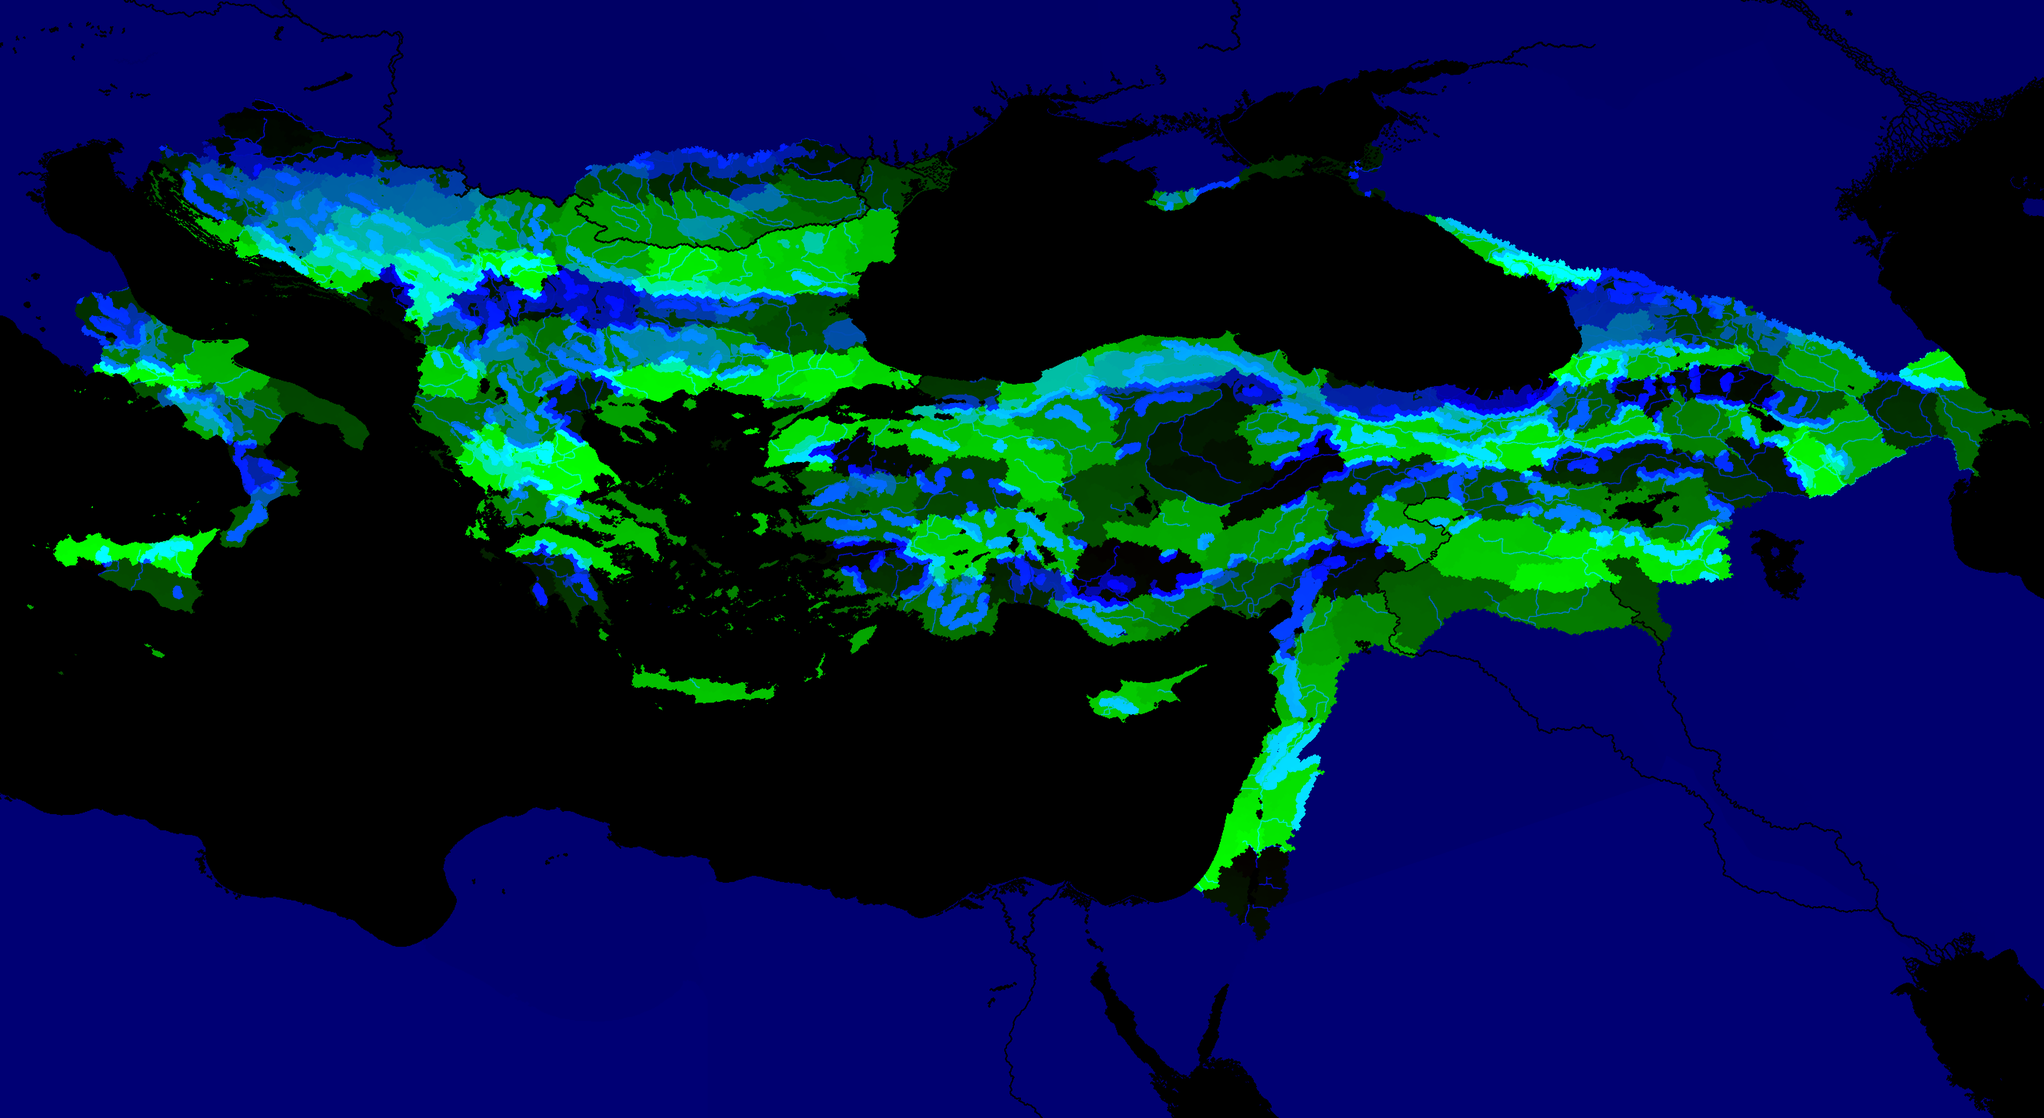
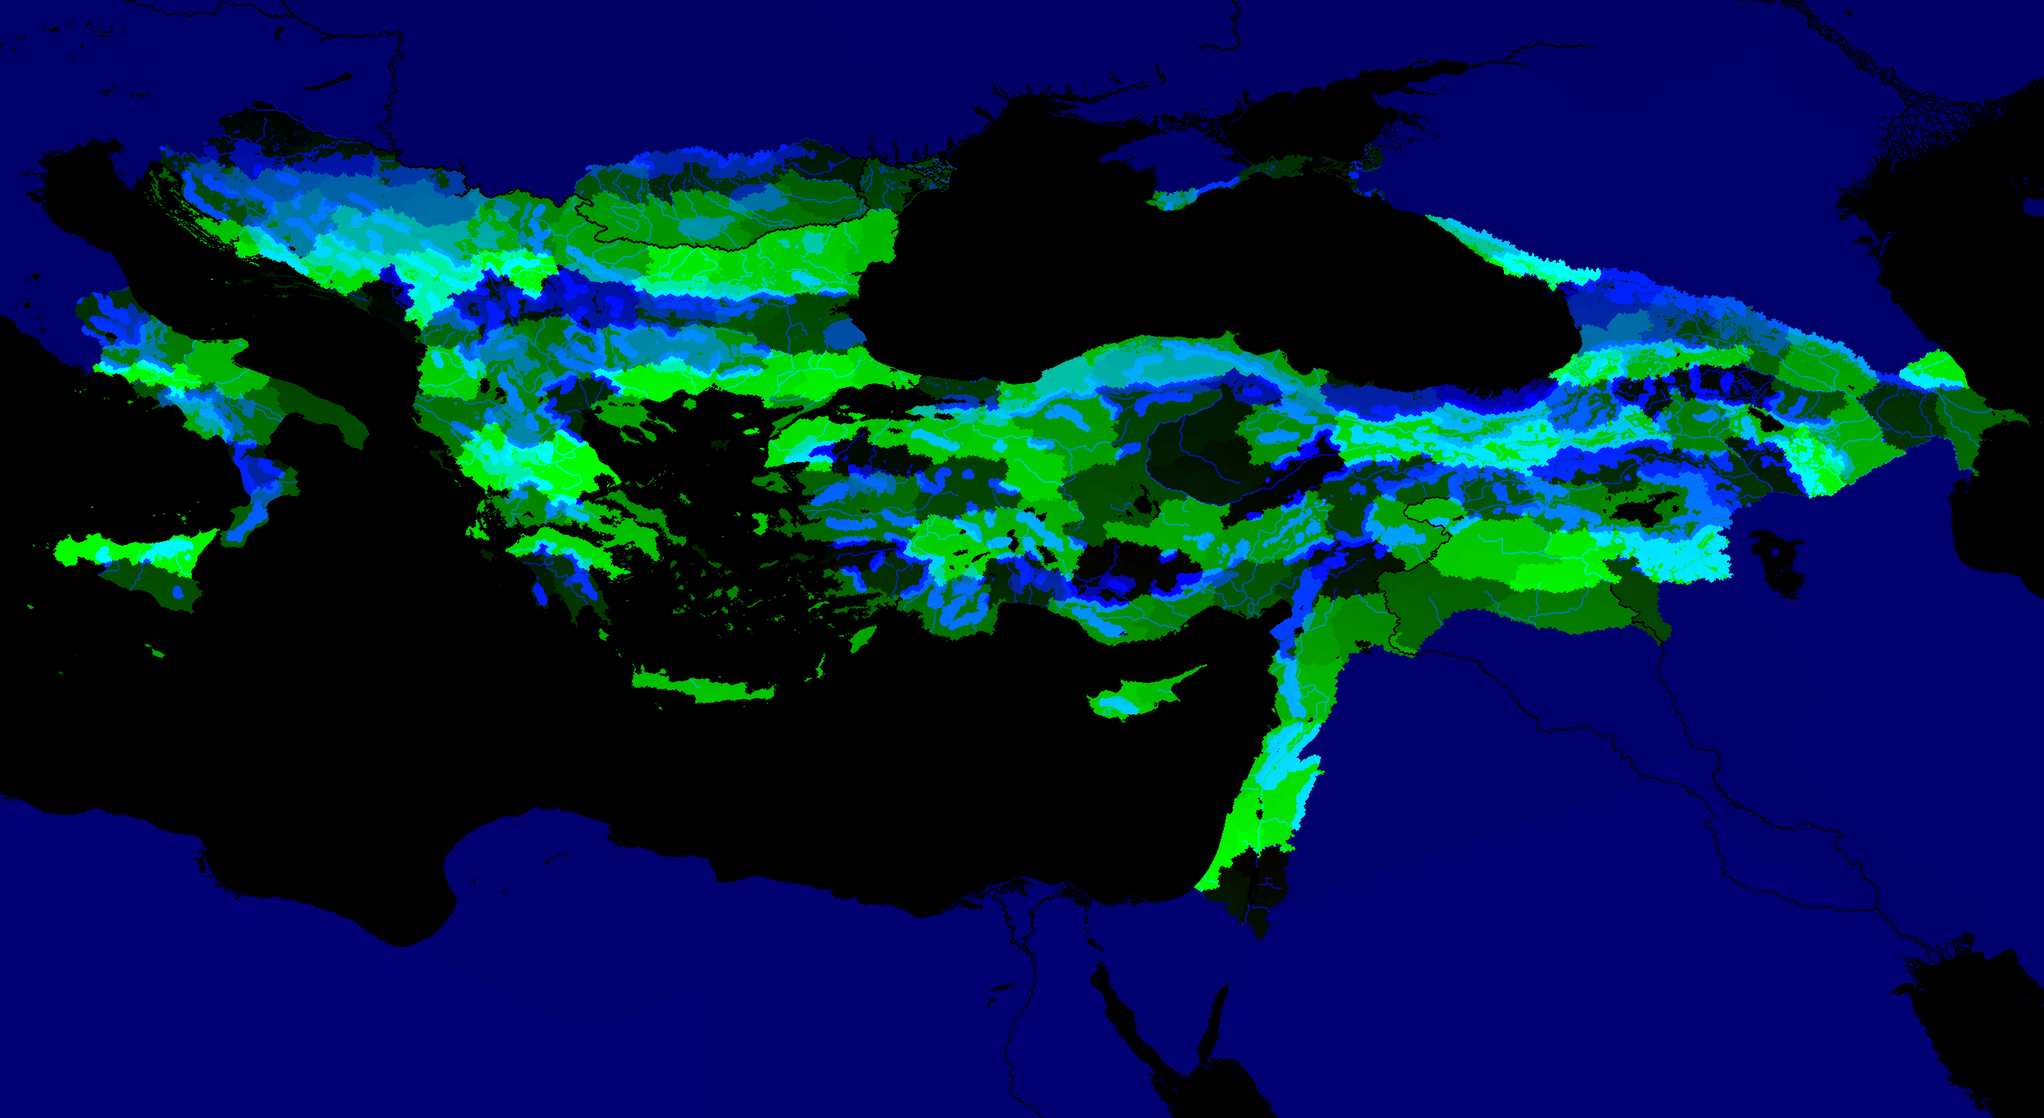
Местность: цвет земли, типы местности и рельеф по эталонной карте (вырезки в tools/terrain), пики на высоких горах, леса; земли за краем зоны под серой вуалью
Claude-Session: https://claude.ai/code/session_01DB8qGZSVeWu67G2NacHSuU

diff --git a/index.html b/index.html
@@ -2352,7 +2352,7 @@ const SFX = (() => {
 if (!HEADLESS) document.addEventListener('click', e => { if (e.target.closest && e.target.closest('button') && !e.target.closest('.nosfx')) SFX.play('click'); }, true);
 
 /* --- заранее загружаем карту (с самого титульного экрана), со шкалой загрузки --- */
-const PRE = { got: {}, total: { img: 2000000, ids: 470000 }, p: null, ready: false, imgOk: false };
+const PRE = { got: {}, total: { img: 3300000, ids: 600000 }, p: null, ready: false, imgOk: false };
 function prefetch(url, key) {
   if (typeof fetch === 'undefined' || location.protocol === 'file:') return Promise.resolve(url);
   return fetch(url).then(r => {
@@ -2647,7 +2647,8 @@ function drawOverlay() {
     for (let y = 0; y < th; y++) {
       const sy = Math.min(PIX.h - 1, Math.floor(y * st)) * W;
       for (let x = 0; x < tw; x++) {
-        const i = sy + Math.min(W - 1, Math.floor(x * st)), v = ids[i]; if (!v) continue;
+        const i = sy + Math.min(W - 1, Math.floor(x * st)), v = ids[i];
+        if (!v) { if (PIX.outer && PIX.outer[i]) { const o = (y * tw + x) * 4; d[o] = 118; d[o + 1] = 116; d[o + 2] = 112; d[o + 3] = 175; } continue; }   // земли за краем зоны — серая вуаль
         if (pr[v] < 0 || pOwn[v] < 0) continue;
         const m = PIX.mtn && PIX.mtn[i] && !pFree[v], c = pCol[v], o = (y * tw + x) * 4;
         d[o] = c[0]; d[o + 1] = c[1]; d[o + 2] = c[2]; d[o + 3] = pFree[v] ? (((x + y) % 5 === 0 || (x - y + 9999) % 5 === 0) ? 110 : 0) : (m ? (PIX.mtn[i] === 2 ? 45 : PIX.mtn[i] === 3 ? 150 : UI.ridgeA) : 190);
@@ -2785,7 +2786,7 @@ function paintVector() {
     if (PIX.vtKey !== key) {
       const vt = PIX.vt; if (vt.width !== vw || vt.height !== vh) { vt.width = vw; vt.height = vh; }
       const vc = vt.getContext('2d'), im = vc.createImageData(vw, vh), d = im.data, ids = PIX.ids, pr = PIX.provReg, pc = PIX.pCol, po = PIX.pOwn, mt = PIX.mtn, W = PIX.w;
-      for (let y = 0; y < vh; y++) { const row = (Y0 + y) * W + X0; for (let x = 0; x < vw; x++) { const i = row + x, v = ids[i]; if (!v || pr[v] < 0 || po[v] < 0) continue; const m = mt && mt[i] && !PIX.pFree[v], c = pc[v], o = (y * vw + x) * 4; d[o] = c[0]; d[o + 1] = c[1]; d[o + 2] = c[2]; const gx = X0 + x, gy = Y0 + y; d[o + 3] = PIX.pFree[v] ? (((gx + gy) % 10 < 1 || (gx - gy + 99999) % 10 < 1) ? 120 : 0) : (m ? (mt[i] === 2 ? 45 : mt[i] === 3 ? 150 : UI.ridgeA) : 190); } }
+      for (let y = 0; y < vh; y++) { const row = (Y0 + y) * W + X0; for (let x = 0; x < vw; x++) { const i = row + x, v = ids[i]; if (!v) { if (PIX.outer && PIX.outer[i]) { const o = (y * vw + x) * 4; d[o] = 118; d[o + 1] = 116; d[o + 2] = 112; d[o + 3] = 175; } continue; } if (pr[v] < 0 || po[v] < 0) continue; const m = mt && mt[i] && !PIX.pFree[v], c = pc[v], o = (y * vw + x) * 4; d[o] = c[0]; d[o + 1] = c[1]; d[o + 2] = c[2]; const gx = X0 + x, gy = Y0 + y; d[o + 3] = PIX.pFree[v] ? (((gx + gy) % 10 < 1 || (gx - gy + 99999) % 10 < 1) ? 120 : 0) : (m ? (mt[i] === 2 ? 45 : mt[i] === 3 ? 150 : UI.ridgeA) : 190); } }
       vc.putImageData(im, 0, 0); PIX.vtKey = key;
     }
     const [sx0, sy0] = toS(X0, Y0), [sx1, sy1] = toS(X1, Y1);

diff --git a/tools/src/6_ui.js b/tools/src/6_ui.js
@@ -107,7 +107,7 @@ const SFX = (() => {
 if (!HEADLESS) document.addEventListener('click', e => { if (e.target.closest && e.target.closest('button') && !e.target.closest('.nosfx')) SFX.play('click'); }, true);
 
 /* --- заранее загружаем карту (с самого титульного экрана), со шкалой загрузки --- */
-const PRE = { got: {}, total: { img: 2000000, ids: 470000 }, p: null, ready: false, imgOk: false };
+const PRE = { got: {}, total: { img: 3300000, ids: 600000 }, p: null, ready: false, imgOk: false };
 function prefetch(url, key) {
   if (typeof fetch === 'undefined' || location.protocol === 'file:') return Promise.resolve(url);
   return fetch(url).then(r => {
@@ -402,7 +402,8 @@ function drawOverlay() {
     for (let y = 0; y < th; y++) {
       const sy = Math.min(PIX.h - 1, Math.floor(y * st)) * W;
       for (let x = 0; x < tw; x++) {
-        const i = sy + Math.min(W - 1, Math.floor(x * st)), v = ids[i]; if (!v) continue;
+        const i = sy + Math.min(W - 1, Math.floor(x * st)), v = ids[i];
+        if (!v) { if (PIX.outer && PIX.outer[i]) { const o = (y * tw + x) * 4; d[o] = 118; d[o + 1] = 116; d[o + 2] = 112; d[o + 3] = 175; } continue; }   // земли за краем зоны — серая вуаль
         if (pr[v] < 0 || pOwn[v] < 0) continue;
         const m = PIX.mtn && PIX.mtn[i] && !pFree[v], c = pCol[v], o = (y * tw + x) * 4;
         d[o] = c[0]; d[o + 1] = c[1]; d[o + 2] = c[2]; d[o + 3] = pFree[v] ? (((x + y) % 5 === 0 || (x - y + 9999) % 5 === 0) ? 110 : 0) : (m ? (PIX.mtn[i] === 2 ? 45 : PIX.mtn[i] === 3 ? 150 : UI.ridgeA) : 190);
@@ -540,7 +541,7 @@ function paintVector() {
     if (PIX.vtKey !== key) {
       const vt = PIX.vt; if (vt.width !== vw || vt.height !== vh) { vt.width = vw; vt.height = vh; }
       const vc = vt.getContext('2d'), im = vc.createImageData(vw, vh), d = im.data, ids = PIX.ids, pr = PIX.provReg, pc = PIX.pCol, po = PIX.pOwn, mt = PIX.mtn, W = PIX.w;
-      for (let y = 0; y < vh; y++) { const row = (Y0 + y) * W + X0; for (let x = 0; x < vw; x++) { const i = row + x, v = ids[i]; if (!v || pr[v] < 0 || po[v] < 0) continue; const m = mt && mt[i] && !PIX.pFree[v], c = pc[v], o = (y * vw + x) * 4; d[o] = c[0]; d[o + 1] = c[1]; d[o + 2] = c[2]; const gx = X0 + x, gy = Y0 + y; d[o + 3] = PIX.pFree[v] ? (((gx + gy) % 10 < 1 || (gx - gy + 99999) % 10 < 1) ? 120 : 0) : (m ? (mt[i] === 2 ? 45 : mt[i] === 3 ? 150 : UI.ridgeA) : 190); } }
+      for (let y = 0; y < vh; y++) { const row = (Y0 + y) * W + X0; for (let x = 0; x < vw; x++) { const i = row + x, v = ids[i]; if (!v) { if (PIX.outer && PIX.outer[i]) { const o = (y * vw + x) * 4; d[o] = 118; d[o + 1] = 116; d[o + 2] = 112; d[o + 3] = 175; } continue; } if (pr[v] < 0 || po[v] < 0) continue; const m = mt && mt[i] && !PIX.pFree[v], c = pc[v], o = (y * vw + x) * 4; d[o] = c[0]; d[o + 1] = c[1]; d[o + 2] = c[2]; const gx = X0 + x, gy = Y0 + y; d[o + 3] = PIX.pFree[v] ? (((gx + gy) % 10 < 1 || (gx - gy + 99999) % 10 < 1) ? 120 : 0) : (m ? (mt[i] === 2 ? 45 : mt[i] === 3 ? 150 : UI.ridgeA) : 190); } }
       vc.putImageData(im, 0, 0); PIX.vtKey = key;
     }
     const [sx0, sy0] = toS(X0, Y0), [sx1, sy1] = toS(X1, Y1);

diff --git a/tools/mkmap3.py b/tools/mkmap3.py
@@ -81,10 +81,41 @@ w = np.clip(hmix * 0.9, 0, 0.5)   # подножия чуть землистее
 land_out = land_out * (1 - w) + mcol * w
 land_out *= shade[..., None]
 out = np.where(landm[..., None], np.clip(land_out, 0, 255), out).astype(np.int32)
+# --- местность по эталонной карте (mkterrain.py), если вырезки есть: цвет земли, тип местности, высоты ---
+EU = os.path.exists(SP + 'terrain/color.jpg')
+if EU:
+    ecol = np.asarray(Image.open(SP + 'terrain/color.jpg').convert('RGB')).astype(np.float32)
+    ter = np.asarray(Image.open(SP + 'terrain/type.png')); hgt = np.asarray(Image.open(SP + 'terrain/height.png')).astype(np.float32)
+    # «рисованные» цвета типов местности (смешиваются с цветом эталона — карта, а не спутниковый снимок)
+    PAL = {0: (112, 140, 72), 5: (138, 156, 84), 4: (168, 160, 102), 3: (206, 182, 132), 7: (184, 156, 108),
+           2: (152, 128, 98), 6: (128, 120, 106), 16: (232, 232, 230), 1: (74, 104, 54), 9: (84, 108, 86),
+           19: (200, 176, 126), 35: (150, 148, 108)}
+    pal = ecol.copy()
+    for i, c in PAL.items(): pal[ter == i] = c
+    pal = np.stack([nd.gaussian_filter(pal[..., c], 1.1) for c in range(3)], -1)
+    basecol = ecol * 0.5 + pal * 0.5 + noise(5)[..., None] * 8
+    Hs = nd.gaussian_filter(hgt, 1.3)
+    gy2, gx2 = np.gradient(Hs * 0.11)
+    nz2 = 1 / np.sqrt(gx2 ** 2 + gy2 ** 2 + 1)
+    shade2 = np.clip((-gx2 * L[0] - gy2 * L[1] + L[2]) * nz2 / L[2], 0.55, 1.45)
+    land2 = np.clip(basecol * shade2[..., None], 0, 255)
+    coast = k == 0x000020
+    keepl = landm & ~coast
+    out = np.where(keepl[..., None], land2, out).astype(np.int32)
+    # границы внешних земель автора (чёрные линии за краем зоны) — поверх
+    olin = ~zone & ((k == 0) | (np.isin(k, [0x262626, 0x404040]) & ~nd.binary_dilation(k == 0x5E5E5E, iterations=2)))
+    out[olin] = (out[olin] * 0.35).astype(np.int32)
+    euw = np.isin(ter, [1]) & landm                                   # лесистая местность эталона
+    forest_m = nd.binary_opening(euw, iterations=1)
+    if os.path.exists(SP + 'umap/forest.npy'): forest_m |= np.load(SP + 'umap/forest.npy') & landm   # + исторические леса (mkforest.py)
+    conifer_m = forest_m & ((Hs > 118) | (nd.distance_transform_edt(~allm) < 22))
+    eu_mtn = np.isin(ter, [6, 16, 2]) & landm & (Hs > 127)            # пики эталона — только на самых высоких местах
 # леса (mkforest.py): деревья-значки под пиками
 sys.path.insert(0, SP)
 from peaks import draw_trees
-if os.path.exists(SP + 'umap/forest.npy'):
+if EU:
+    out = draw_trees(out, forest_m, conifer_m, np.random.default_rng(1204))
+elif os.path.exists(SP + 'umap/forest.npy'):
     out = draw_trees(out, np.load(SP + 'umap/forest.npy') & landm, np.load(SP + 'umap/conifer.npy'), np.random.default_rng(1204))
 # реки (mkrivers.py — малые реки с карты мода): поверх леса, под пиками
 if os.path.exists(SP + 'umap/rivers.npy'):
@@ -93,9 +124,10 @@ if os.path.exists(SP + 'umap/rivers.npy'):
     out = np.clip(out.astype(np.float32) * (1 - rv) + rcol * rv, 0, 255).astype(np.int32)
 # рисованные пики по хребтам (дальние — раньше, ближние перекрывают)
 from peaks import draw_peaks
-out = draw_peaks(out, allm & landm, np.random.default_rng(1261), bg=bgm & ~zone)
+pkeep = np.where(allm, 0.85, 0.4).astype(np.float32)   # на игровых хребтах — плотно, на горах эталона — реже
+out = draw_peaks(out, (allm | (eu_mtn if EU else False)) & landm, np.random.default_rng(1261), bg=None, keep=pkeep)
 # широкая маска гор (для режима «хребты своего цвета» — без заливки державы) — в синий канал ids.png
-massif = (Hm > 0.38) & zone
+massif = ((Hm > 0.38) | (nd.binary_dilation(eu_mtn, iterations=3) if EU else False)) & zone
 idp = sys.argv[1] + '/ids.png'
 if os.path.exists(idp):
     I = np.asarray(Image.open(idp).convert('RGB')).copy()
@@ -104,8 +136,8 @@ if os.path.exists(idp):
     if os.path.exists(SP + 'umap/rivers.npy'):   # реки: B=180 — видны сквозь цвет державы
         rvm = (np.load(SP + 'umap/rivers.npy') > 45) & ~keep_outer & ((I[..., 0].astype(int) << 8 | I[..., 1]) > 0)
         b[rvm] = 180
-    if os.path.exists(SP + 'umap/forest.npy'):   # леса: B=165 — видны сквозь цвет державы (слабее гор)
-        fm = np.load(SP + 'umap/forest.npy') & ~keep_outer & (b == 0) & ((I[..., 0].astype(int) << 8 | I[..., 1]) > 0)
+    if EU or os.path.exists(SP + 'umap/forest.npy'):   # леса: B=165 — видны сквозь цвет державы (слабее гор)
+        fm = (forest_m if EU else np.load(SP + 'umap/forest.npy')) & ~keep_outer & (b == 0) & ((I[..., 0].astype(int) << 8 | I[..., 1]) > 0)
         b[fm] = 165
     I[..., 2] = b; Image.fromarray(I).save(idp, optimize=True)
 im = Image.fromarray(out.astype(np.uint8))

diff --git a/tools/mkterrain.py b/tools/mkterrain.py
@@ -1,0 +1,26 @@
+# Местность из эталонной карты (папка map/: heightmap.bmp, terrain.bmp, terrain/colormap_summer.dds).
+# Наша карта — вырезка эталонной, увеличенная ровно в 2 раза: наш (x, y) = эталон (x/2 + X0, y/2 + Y0),
+# сдвиг подобран по морю (совпадение 99,4 %). Оригиналы в репозиторий не кладём — только вырезки.
+# Запуск: python3 mkterrain.py ПАПКА_map
+# Выход: terrain/color.jpg, terrain/type.png, terrain/height.png — вырезки в нашей сетке (их читает mkmap3.py)
+import os, sys, glob
+import numpy as np
+from PIL import Image
+SP = os.path.dirname(os.path.abspath(__file__)) + '/'
+SRC = sys.argv[1].rstrip('/') + '/'
+X0, Y0, K = 3100, 854, 2
+H, W = np.asarray(Image.open(sorted(glob.glob(SP + '../source/*political*.png'))[0])).shape[:2]
+w, h = (W + K - 1) // K + 1, (H + K - 1) // K + 1
+def fit(im, scale, resample):
+    s = scale
+    c = im.crop((int(X0 / s), int(Y0 / s), int(X0 / s) + int(w / s) + 2, int(Y0 / s) + int(h / s) + 2))
+    big = c.resize((c.size[0] * K * s, c.size[1] * K * s), resample)
+    return np.roll(np.asarray(big), -1, 0)[:H, :W]   # +½ пикселя эталона по вертикали (99,44 % совпадения моря)
+col = fit(Image.open(SRC + 'terrain/colormap_summer.dds').convert('RGB'), 2, Image.BICUBIC)
+ter = fit(Image.open(SRC + 'terrain.bmp'), 1, Image.NEAREST)
+hgt = fit(Image.open(SRC + 'heightmap.bmp'), 1, Image.BICUBIC)
+os.makedirs(SP + 'terrain', exist_ok=True)
+Image.fromarray(col.astype(np.uint8)).save(SP + 'terrain/color.jpg', quality=92)
+Image.fromarray(ter.astype(np.uint8)).save(SP + 'terrain/type.png', optimize=True)
+Image.fromarray(hgt.astype(np.uint8)).save(SP + 'terrain/height.png', optimize=True)
+print('готово', col.shape, ter.shape, hgt.shape)

diff --git a/tools/peaks.py b/tools/peaks.py
@@ -5,7 +5,7 @@ import numpy as np
 from PIL import Image, ImageDraw, ImageFilter
 import scipy.ndimage as nd
 
-def draw_peaks(out, allm, rng, scale=2, cell=7, bg=None):
+def draw_peaks(out, allm, rng, scale=2, cell=7, bg=None, keep=None):
     H, W = allm.shape
     # «высота» хребта: толщина маски вокруг точки — крупнее пики там, где хребет толще
     thick = nd.gaussian_filter(allm.astype(np.float32), 3.0)
@@ -15,7 +15,8 @@ def draw_peaks(out, allm, rng, scale=2, cell=7, bg=None):
     order = rng.permutation(len(ys))
     _, first = np.unique(key[order], return_index=True)
     sel = order[first]
-    sel = sel[rng.random(len(sel)) < 0.85]
+    pk = 0.85 if keep is None else keep[ys[sel], xs[sel]]
+    sel = sel[rng.random(len(sel)) < pk]
     py, px = ys[sel], xs[sel]
     t = thick[py, px]
     # слой гор рисуем в увеличенном размере (сглаживание краёв), только вокруг хребтов

diff --git a/tools/README.md b/tools/README.md
@@ -13,6 +13,7 @@
 4. `python3 mkprov.py ..` — `../ids.png` (номер провинции в цвете пикселя, вполовину разрешения) и список провинций.
 4а. `python3 mkrivers.py` — малые реки с карты мода (`source/mod - реки.png`): совмещение по морю (сдвиг 34 px), берега рек (#000020) на суше автора → заливка русла → осевая линия → река ровной ширины; устья дотягиваются до воды, оторванные убираются → `umap/rivers.npy`. Судоходные (большие) реки автор рисует сам на своих картах цветом воды.
 4б. `python3 mkforest.py` — леса по исторической географии XIII века (зоны с плотностью в самом скрипте: Шумадия, Кодрии Влэсией, Телеорман, Понт, Колхида и др.), предгорья гуще, гребни и пустыни без леса → `umap/forest.npy`, `umap/conifer.npy` (хвойные у гор).
+4в. `python3 mkterrain.py ПАПКА` — местность (цвет земли, тип местности, высоты) из эталонной карты в нашей сетке → `terrain/` (готовые вырезки уже лежат там; шаг нужен, только если эталон сменится).
 5. `python3 mkmap3.py ..` — фон `../map.jpg` (зерно суши, глубина моря, рельеф под горами и рисованные пики по хребтам — `peaks.py`) и широкая маска гор в синем канале `../ids.png`; затем `python3 mkvec.py ..` — векторные границы `../borders.js`.
 6. `python3 mkpadj.py` — граф соседства провинций для движения войск (суша, перевалы, проливы, море) → `umap/padj.json` и `mapinfo3.json`.
 7. `python3 mkroads.py ..` — дороги по местности для каждой связи провинций (поиск пути по сетке 3×3 px: хребты непроходимы, кроме перевалов; по морю — только по воде) → `../roads.js`. Морские связи без пути по воде убираются из графа.
